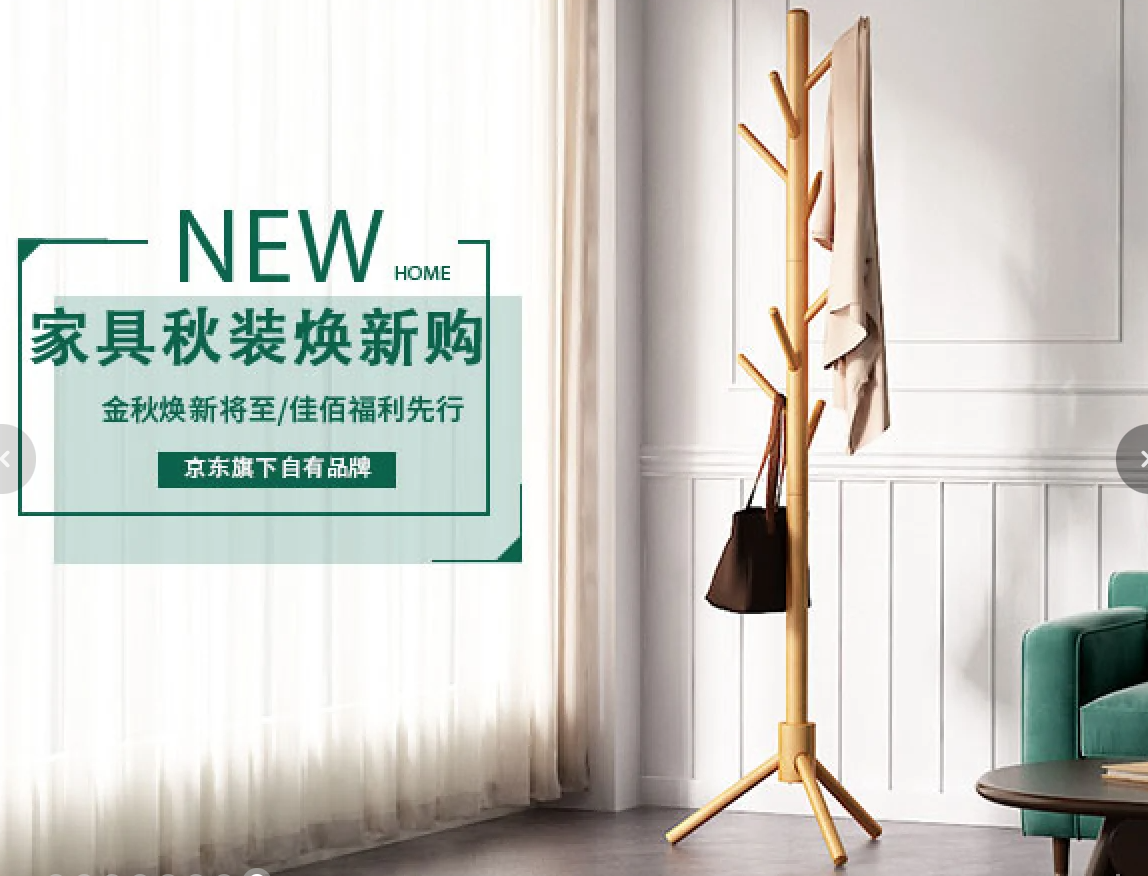
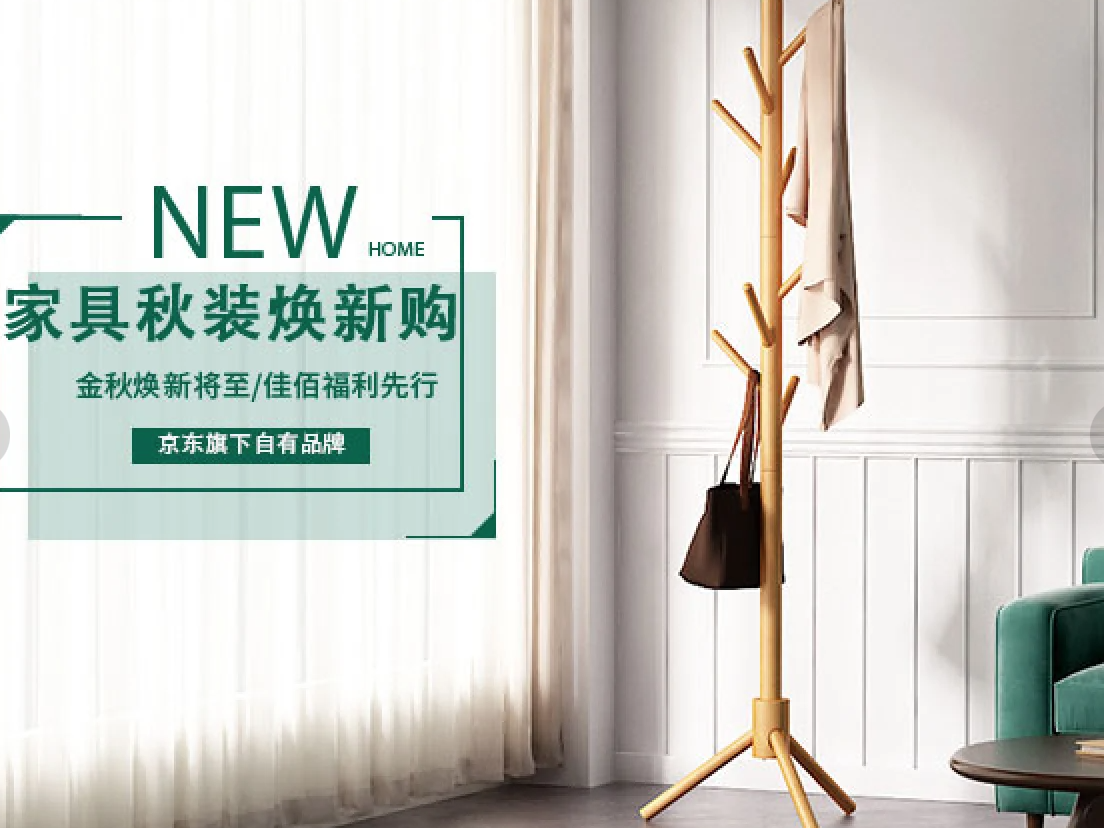
轮播图 fixed

diff --git a/js/slider.js b/js/slider.js
@@ -1,10 +1,142 @@
 class Slider {
 
     constructor(id) {
+        this.box = document.querySelector(id)
+        this.picBox = this.box.querySelector("ul")
+        this.indexBox = this.box.querySelector(".index-box")
+
+        this.SliderWidth = this.box.clientWidth 
+        this.index = 1
+        this.animated = false
+        this.sliders = this.picBox.children.length
+
         this.init()
     }
 
     init() {
         console.log("slider")
+        this.initPoint()
+        this.copyPic()
+        this.leftRight()
     }
+
+    initPoint() {
+        const num = this.picBox.children.length
+
+        let frg = document.createDocumentFragment();
+
+        for(let i = 0; i < num; i++) {
+            let li = document.createElement("li")
+            li.setAttribute("data-index", i+1)
+            if(i==0) {
+                li.className = "active"
+            }
+            frg.appendChild(li)
+        }
+
+        this.indexBox.children[0].appendChild(frg)
+        this.indexBox.children[0].style.width = num * 10 * 2 + "px";
+
+        this.indexBox.children[0].addEventListener("click", (e) => {
+
+            let pointIndex = (e.target).getAttribute("data-index")
+
+            let offset = (pointIndex - this.index) * this.SliderWidth
+            this.index = pointIndex
+            this.move(offset)
+
+
+            this.index = pointIndex
+
+        })
+
+    }
+
+    copyPic() {
+        const first = this.picBox.firstElementChild.cloneNode(true)
+        const last = this.picBox.lastElementChild.cloneNode(true)
+
+        this.picBox.appendChild(first)
+        this.picBox.insertBefore(last, this.picBox.firstElementChild)
+ 
+        this.picBox.style.width = this.SliderWidth * this.picBox.children.length + "px"
+        this.picBox.style.left = -1 * this.SliderWidth + "px"
+    }
+
+    move(offset) {
+        this.animate(offset)
+
+        const num = this.indexBox.children[0].children.length
+        for(let i = 0; i < num; i++) {
+            this.indexBox.children[0].children[i].className = ""
+        }
+        this.indexBox.children[0].children[this.index-1].className = "active"
+    }
+
+    animate(offset) {
+        const time = 1000
+        const rate = 100
+        let speed = offset / (time/rate)
+
+        let goal =  parseFloat(this.picBox.style.left) - offset
+
+        this.animated = true
+
+        let animate = setInterval(() => {
+            if(this.picBox.style.left == goal || Math.abs(Math.abs(parseFloat(this.picBox.style.left)) - Math.abs(goal)) < Math.abs(speed)) {
+                this.picBox.style.left == goal
+                clearInterval(animate)
+                this.animated = false
+                
+                if(parseFloat(this.picBox.style.left) == 0) {
+                    this.picBox.style.left = - this.sliders * this.SliderWidth + "px"
+                } else if (parseFloat(this.picBox.style.left) == - (this.sliders+1) * this.SliderWidth) {
+                    this.picBox.style.left = - this.SliderWidth + "px"
+                }
+
+
+            } else {
+                this.picBox.style.left = parseFloat(this.picBox.style.left) - speed + "px"
+            }
+        }, rate)
+    }
+
+    leftRight() {
+        this.box.querySelector(".left-box").addEventListener("click", () => {
+            console.log("left")
+
+            if(this.animated) {
+                return
+            }
+
+            if(this.index - 1 < 1) {
+                this.index = this.sliders
+            } else {
+                this.index --
+            }
+
+            this.move(-this.SliderWidth)
+        })
+
+        this.box.querySelector(".right-box").addEventListener("click", () => {
+            console.log("right")
+
+            if(this.animated) {
+                return
+            }
+
+            if(this.index + 1 > this.sliders) {
+                this.index = 1
+            } else {
+                this.index ++
+            }
+
+            this.move(this.SliderWidth)            
+        })
+
+    }
+
+
+    
+
 }

diff --git a/css/index.css b/css/index.css
@@ -252,7 +252,7 @@
 
 .slider-box .slider {
     width: 590px;
-    height: 470;
+    height: 470px;
     position: relative;
     /* 图片不能溢出相框 */
     overflow: hidden; 
@@ -261,11 +261,70 @@
 .slider-box .slider ul {
     position: absolute;
     top: 0px;
-    left: 0px;
-    width: 500%;
+    /* left: -590px;
+    width: 500%; */
     height: 100%;
 }
 
 .slider-box .slider ul li {
     float: left;
+}
+
+.slider-box .left-box {
+    background: rgb(0,0,0,0.2);
+    position: absolute;
+    top: 45%;
+    left: 0px;
+    width: 50px;
+    height: 50px;
+    color: #ffffff;
+    display: flex;
+    justify-content: center;
+    align-items: center;
+    cursor: pointer;
+}
+
+.slider-box .right-box {
+    background: rgb(0,0,0,0.2);
+    position: absolute;
+    top: 45%;
+    right: 0px;
+    width: 50px;
+    height: 50px;
+    color: #ffffff;
+    display: flex;
+    justify-content: center;
+    align-items: center;
+    cursor: pointer;
+}
+
+.slider-box .left-box, .slider-box .right-box span {
+    font-size: 24px;
+}
+
+.slider-box .index-box {
+    position: absolute;
+    bottom: 3%;
+    left: 10%;
+}
+
+.slider-box .index-box > ol {
+    height: 14px;
+    display: flex;
+    justify-content: space-evenly;
+    align-items: center;
+    background: rgb(0,0,0,0.6);
+}
+
+.slider-box .index-box > ol > li {
+    width: 10px;
+    height: 10px;
+    border-radius: 50%;
+    background: #ffffff;
+    list-style: none;
+    cursor: pointer;
+}
+
+.slider-box .index-box > ol > li.active {
+    background: #e1251b;
 }

diff --git a/index.html b/index.html
@@ -2229,6 +2229,15 @@
                                 <img width="590px" height="470px" src="./img/5.jpg" alt="">
                             </li>
                         </ul>
+                        <div class="left-box">
+                            <span>&lt;</span>
+                        </div>
+                        <div class="right-box">
+                            <span>&gt;</span>
+                        </div>
+                        <div class="index-box">
+                            <ol></ol>
+                        </div>
                     </div>
 
 

diff --git a/css/reset.css b/css/reset.css
@@ -1,4 +1,4 @@
-html,body,ul,li {
+html,body,ul,ol,li {
     margin: 0px;
     padding: 0px;
 }
